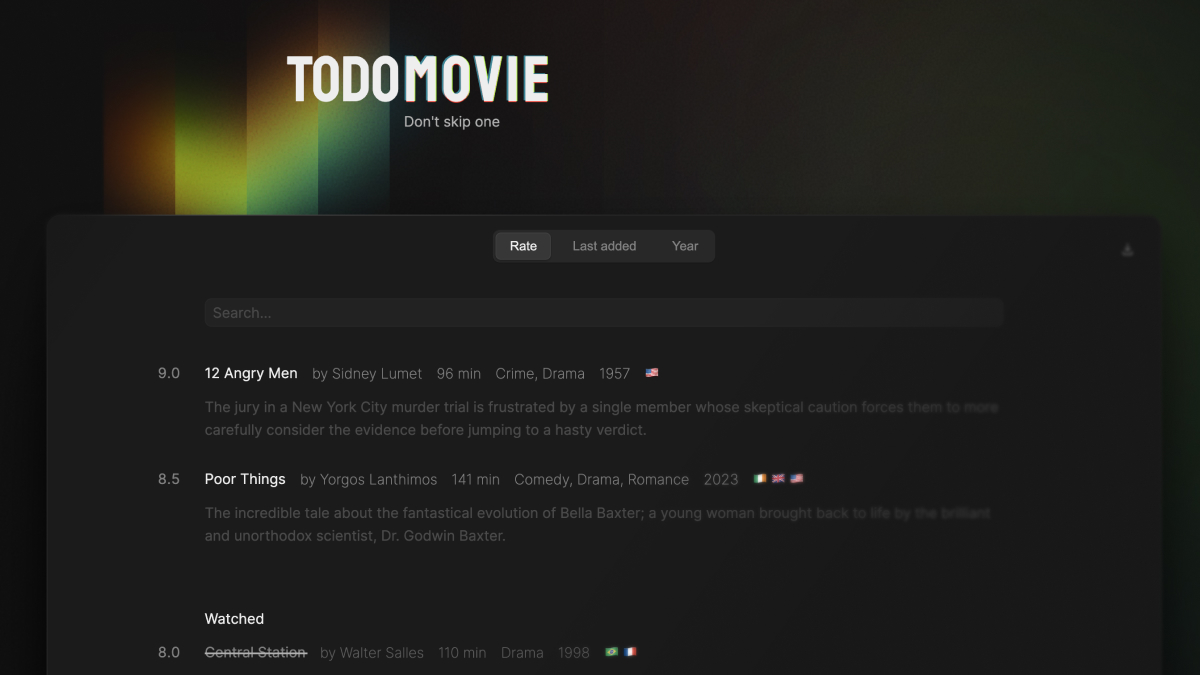
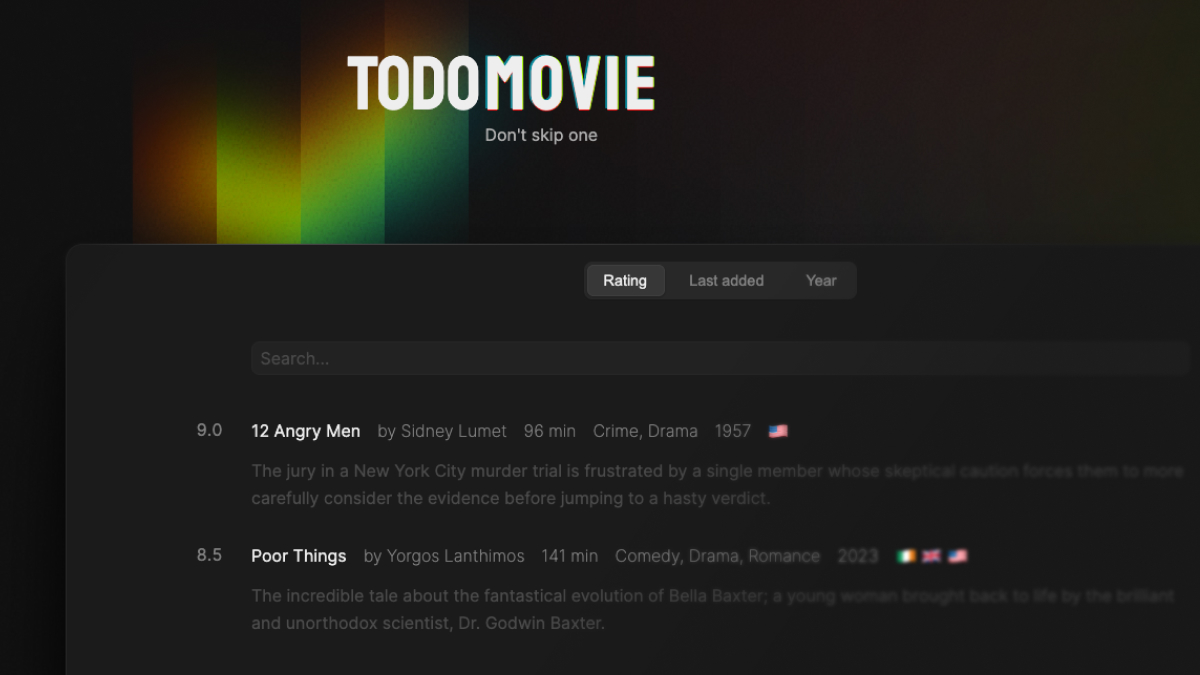
feat: Update user ID display, fix preference item label, update welcome message and adjust tab position

diff --git a/components/Welcome.tsx b/components/Welcome.tsx
@@ -13,12 +13,12 @@ export const Welcome = ({ onSetMovies }: { onSetMovies: () => void }) => {
 
         <div className="welcome-text">
           <h1>
-            This is the new home of your movie list! Search, sort, and
-            don&apos;t skip a single film.
+            Meet the new home of your movie watchlist! Search, sort, and
+            don&apos;t skip a single movie.
           </h1>
           <p>
-            Not sure where to start? Start searching or check out the list of
-            Best Picture Oscar-nominated movies.
+            Not sure where to start? Search for a movie or add the Best Picture
+            Oscar-nominated movies.
           </p>
 
           <div>
@@ -37,7 +37,7 @@ export const Welcome = ({ onSetMovies }: { onSetMovies: () => void }) => {
                   clipRule="evenodd"
                 />
               </svg>
-              Add Oscar-nominated
+              Add all Oscar-nominees
             </button>
           </div>
         </div>

diff --git a/components/Todo.tsx b/components/Todo.tsx
@@ -14,7 +14,7 @@ type OptimisticAction =
   | { action: "set"; payload: Movie[] }
   | { action: "add"; payload: Movie };
 
-export const PREFERENCE_ITEMS = ["Rate", "Last added", "Year"] as const;
+export const PREFERENCE_ITEMS = ["Rating", "Last added", "Year"] as const;
 export type Preference = (typeof PREFERENCE_ITEMS)[number];
 
 export const Todo = ({ data }: { data: Movie[] }) => {

diff --git a/app/credits/page.tsx b/app/credits/page.tsx
@@ -39,7 +39,7 @@ export default async function Credits() {
 
         {userId && (
           <tr>
-            <td>You As User-ID</td>
+            <td>User-ID</td>
             <td>{userId}</td>
           </tr>
         )}

diff --git a/components/tabs.css b/components/tabs.css
@@ -41,7 +41,7 @@
 
 @media screen and (min-width: 1024px) {
   .app-nav:before {
-    right: var(--right, 184px);
+    right: var(--right, 183px);
   }
 }
 
